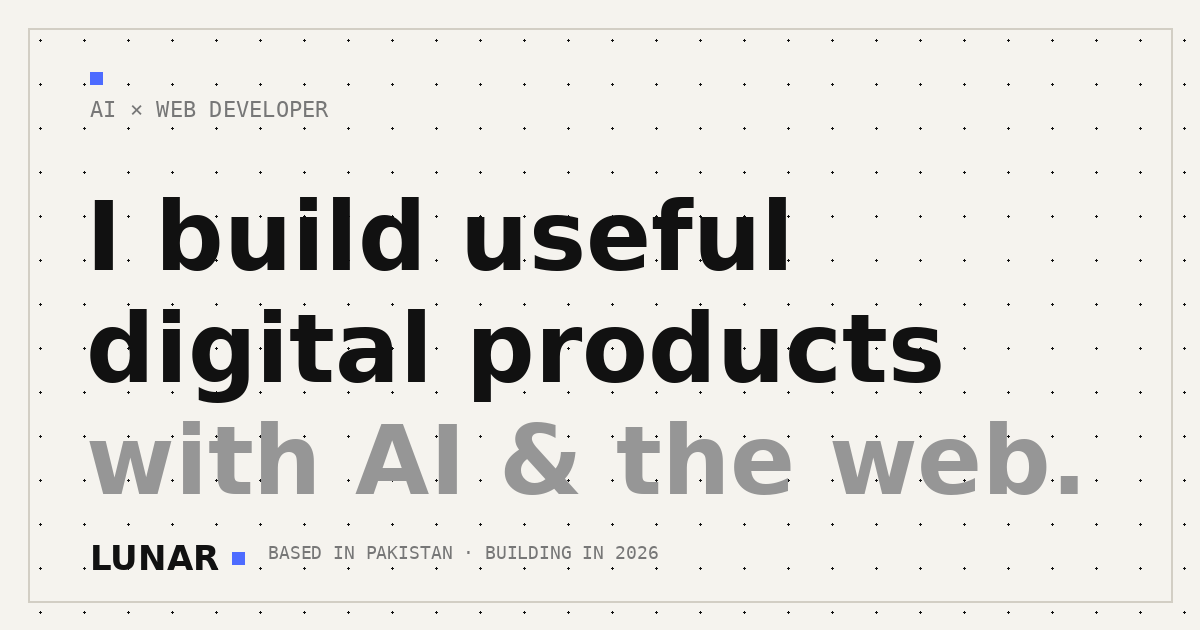
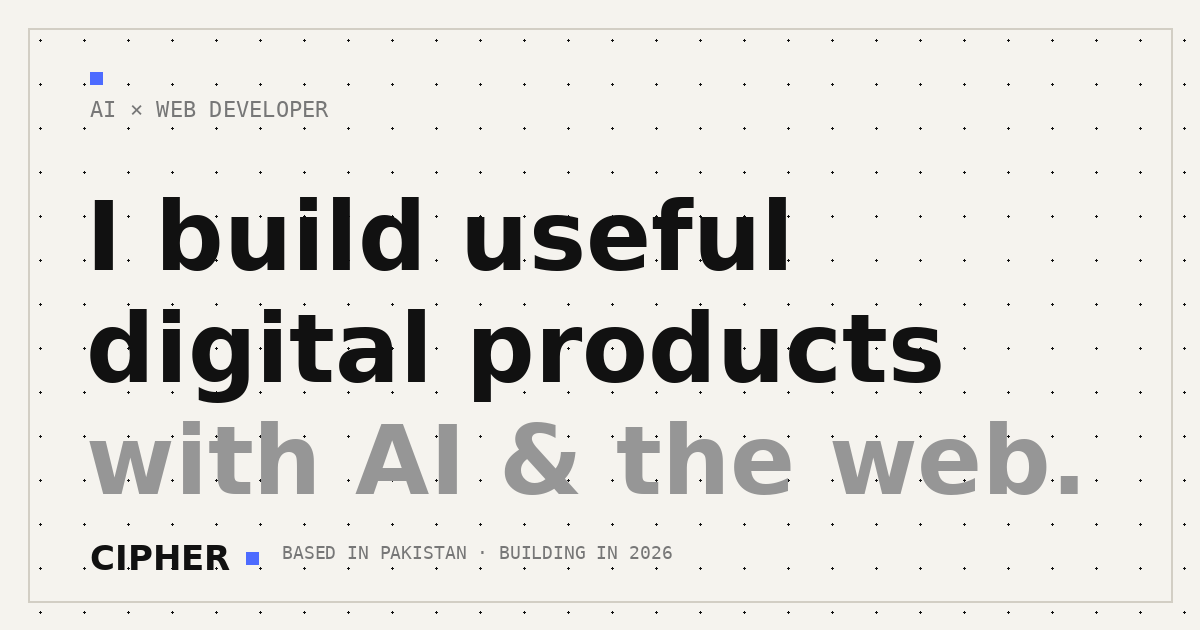
aab3d8eb-2e99-40c9-a550-a207ffc45669

Changed region(s): [[0.0617, 0.8444, 0.555, 0.9048]]

diff --git a/src/app/layout.tsx b/src/app/layout.tsx
@@ -15,15 +15,15 @@ const geistMono = Geist_Mono({
   display: "swap",
 });
 
-const siteUrl = "https://lunar.build";
+const siteUrl = "https://cipher.build";
 
 export const metadata: Metadata = {
   metadataBase: new URL(siteUrl),
-  title: "Lunar — AI × Web Developer",
+  title: "Cipher — AI × Web Developer",
   description:
-    "Lunar is an AI × Web Developer building modern digital products, web experiences and experiments.",
+    "Cipher is an AI × Web Developer building modern digital products, web experiences and experiments.",
   keywords: [
-    "Lunar",
+    "Cipher",
     "AI developer",
     "web developer",
     "product developer",
@@ -31,24 +31,24 @@ export const metadata: Metadata = {
     "Next.js",
     "Pakistan",
   ],
-  authors: [{ name: "Lunar" }],
-  creator: "Lunar",
+  authors: [{ name: "Cipher" }],
+  creator: "Cipher",
   icons: {
     icon: [{ url: "/favicon.svg", type: "image/svg+xml" }],
     apple: [{ url: "/favicon.svg", type: "image/svg+xml" }],
   },
   openGraph: {
-    title: "Lunar — AI × Web Developer",
+    title: "Cipher — AI × Web Developer",
     description:
       "I build useful digital products with AI & the web. From prototype to deployment.",
     url: siteUrl,
-    siteName: "Lunar — Portfolio",
+    siteName: "Cipher — Portfolio",
     images: [
       {
         url: "/og.png",
         width: 1200,
         height: 630,
-        alt: "Lunar — AI × Web Developer",
+        alt: "Cipher — AI × Web Developer",
       },
     ],
     locale: "en_US",
@@ -56,7 +56,7 @@ export const metadata: Metadata = {
   },
   twitter: {
     card: "summary_large_image",
-    title: "Lunar — AI × Web Developer",
+    title: "Cipher — AI × Web Developer",
     description:
       "I build useful digital products with AI & the web. From prototype to deployment.",
     images: ["/og.png"],
@@ -76,8 +76,7 @@ export const viewport: Viewport = {
 const personJsonLd = {
   "@context": "https://schema.org",
   "@type": "Person",
-  name: "Lunar",
-  alternateName: "Cipher",
+  name: "Cipher",
   jobTitle: "AI × Web Developer",
   url: siteUrl,
   address: {

diff --git a/src/components/portfolio/contact.tsx b/src/components/portfolio/contact.tsx
@@ -28,7 +28,7 @@ export function Contact() {
         className="text-outline pointer-events-none absolute -bottom-[4vw] left-1/2 -translate-x-1/2 select-none whitespace-nowrap text-[24vw] font-semibold leading-none tracking-[-0.04em]"
         aria-hidden
       >
-        LUNAR
+        CIPHER
       </span>
 
       <div className="container-x relative flex flex-1 flex-col items-center justify-center py-24 text-center sm:py-32">
@@ -115,9 +115,9 @@ export function Footer() {
             <a
               href="#top"
               className="flex items-baseline gap-[3px] text-2xl font-semibold tracking-[-0.02em]"
-              aria-label="Lunar — back to top"
+              aria-label="Cipher — back to top"
             >
-              LUNAR
+              CIPHER
               <span className="inline-block h-[9px] w-[9px] rounded-[2.5px] bg-[#4D6BFF]" aria-hidden />
             </a>
             <p className="micro mt-3 text-white/40">AI × WEB DEVELOPER</p>
@@ -145,7 +145,7 @@ export function Footer() {
         </div>
 
         <div className="flex flex-wrap items-center justify-between gap-4 border-t border-white/10 pt-6">
-          <p className="micro text-white/35">© 2026 LUNAR — ALL RIGHTS RESERVED</p>
+          <p className="micro text-white/35">© 2026 CIPHER — ALL RIGHTS RESERVED</p>
           <a
             href="#top"
             className="micro link-underline flex items-center gap-2 text-white/50 transition-colors hover:text-white"

diff --git a/src/lib/site.ts b/src/lib/site.ts
@@ -1,13 +1,13 @@
 export const site = {
-  name: "LUNAR",
+  name: "CIPHER",
   role: "AI × WEB DEVELOPER",
   statement: "I build useful digital products with AI & the web.",
   basedIn: "PAKISTAN",
   year: "2026",
   /* Replace with your real links before going live */
-  email: "mailto:hello@lunar.build",
-  github: "https://github.com/lunar",
-  linkedin: "https://www.linkedin.com/in/lunar",
+  email: "mailto:hello@cipher.build",
+  github: "https://github.com/cipher",
+  linkedin: "https://www.linkedin.com/in/cipher",
 };
 
 export const navItems = [
@@ -157,7 +157,7 @@ export const labEntries = [
   },
   {
     index: "06",
-    name: "LUNAR.PORTFOLIO",
+    name: "CIPHER.PORTFOLIO",
     note: "The site you're on — designed & built from scratch.",
     status: "SHIPPED",
     tone: "live" as const,

diff --git a/src/components/portfolio/about-capabilities.tsx b/src/components/portfolio/about-capabilities.tsx
@@ -36,7 +36,7 @@ export function About() {
             <div className="mt-10 grid grid-cols-1 gap-10 md:grid-cols-12">
               <Reveal delay={0.1} className="md:col-span-7">
                 <p className="max-w-[58ch] text-[15px] leading-[1.85] text-[#3d3d3d] sm:text-base">
-                  I&apos;m Lunar, an AI × Web Developer focused on building modern
+                  I&apos;m Cipher, an AI × Web Developer focused on building modern
                   digital products, experiments and useful tools. I enjoy taking
                   an idea from a rough concept to something real, interactive and
                   deployable — designing the structure, building the product and

diff --git a/src/app/page.tsx b/src/app/page.tsx
@@ -6,7 +6,6 @@ import { Process, TechStack } from "@/components/portfolio/process-stack";
 import { Lab } from "@/components/portfolio/lab";
 import { Journey } from "@/components/portfolio/journey";
 import { Contact, Footer } from "@/components/portfolio/contact";
-import { Cursor } from "@/components/portfolio/cursor";
 
 export default function Home() {
   return (
@@ -17,7 +16,6 @@ export default function Home() {
       >
         Skip to work
       </a>
-      <Cursor />
       <Navbar />
       <main className="flex min-h-screen flex-col">
         <Hero />

diff --git a/src/components/portfolio/navbar.tsx b/src/components/portfolio/navbar.tsx
@@ -108,9 +108,9 @@ export function Navbar() {
           <a
             href="#top"
             className="group flex items-baseline gap-[3px] text-[17px] font-semibold tracking-[-0.02em]"
-            aria-label="Lunar — back to top"
+            aria-label="Cipher — back to top"
           >
-            LUNAR
+            CIPHER
             <span
               className="inline-block h-[7px] w-[7px] rounded-[2px] bg-[#4D6BFF] transition-transform duration-500 group-hover:rotate-45"
             />

diff --git a/scripts/gen_og.py b/scripts/gen_og.py
@@ -36,9 +36,9 @@ d.text((86, 292), "digital products", font=font(bold, 96), fill=INK)
 d.text((86, 404), "with AI & the web.", font=font(bold, 96), fill=(150, 150, 150))
 
 # name plate bottom
-d.text((90, H - 92), "LUNAR", font=font(bold, 34), fill=INK)
-d.rectangle([232, H - 78, 244, H - 66], fill=BLUE)
-d.text((268, H - 88), "BASED IN PAKISTAN · BUILDING IN 2026", font=font(mono, 18), fill=MUTED)
+d.text((90, H - 92), "CIPHER", font=font(bold, 34), fill=INK)
+d.rectangle([246, H - 78, 258, H - 66], fill=BLUE)
+d.text((282, H - 88), "BASED IN PAKISTAN · BUILDING IN 2026", font=font(mono, 18), fill=MUTED)
 
 img.save("/home/z/my-project/public/og.png", "PNG", optimize=True)
 print("OG image saved")

diff --git a/worklog.md b/worklog.md
@@ -34,3 +34,20 @@ Work Log:
 Stage Summary:
 - Site complete and verified at http://localhost:3000
 - Placeholder links in src/lib/site.ts (email/github/linkedin) — user must replace
+
+---
+Task ID: 3
+Agent: main
+Task: Remove floating cursor + rebrand LUNAR -> CIPHER
+
+Work Log:
+- Removed <Cursor /> mount + import from src/app/page.tsx; deleted src/components/portfolio/cursor.tsx (native cursor restored, no cursor:none CSS existed)
+- Rebranded all surfaces: site.ts (name/links/lab entry CIPHER.PORTFOLIO), layout.tsx (title/desc/keywords/authors/creator/OG/Twitter/JSON-LD name=Cipher, siteUrl cipher.build), navbar + contact (wordmarks, aria-labels, ghost wordmark, copyright), about ("I'm Cipher")
+- Redesigned favicon.svg: C-arc + blue cursor square (was L letterform); regenerated og.png via gen_og.py with CIPHER name plate
+- Verified: grep = 0 lunar refs; tsc errors only in pre-existing examples/skills scaffolding; eslint clean; dev server 200
+- Screenshots (desktop 1440 + mobile 390): hero/about/lab/contact/footer all show CIPHER, no floating cursor, layout intact
+
+Stage Summary:
+- Brand is now CIPHER everywhere (display + SEO + structured data)
+- Floating cursor removed; magnetic buttons & mouse parallax kept (separate effects)
+- Placeholder links now hello@cipher.build / github.com/cipher / linkedin.com/in/cipher — user should replace with real handles
